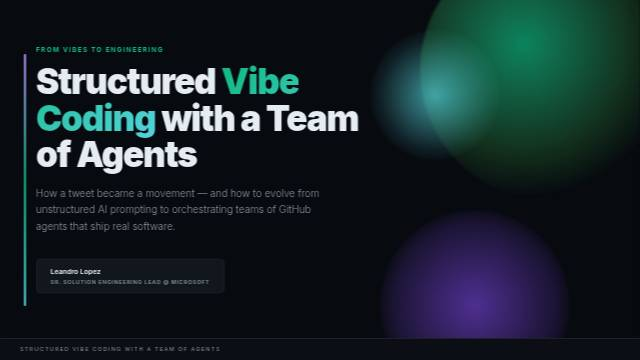
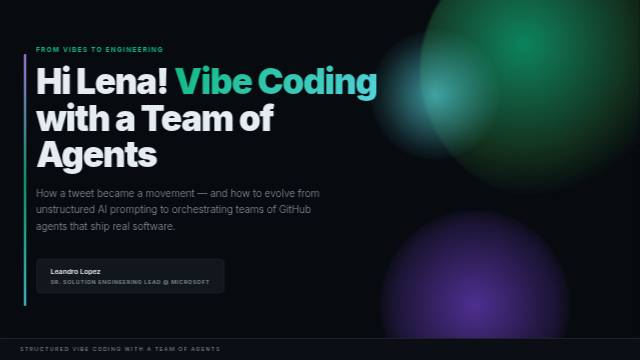
Auto-save from DECKIO — 2026-04-09T15:12

Changed region(s): [[0.0312, 0.1833, 0.5938, 0.4889]]

diff --git a/src/slides/CoverSlide.jsx b/src/slides/CoverSlide.jsx
@@ -13,7 +13,7 @@ export default function CoverSlide({ index, project }) {
         <div className={styles.content}>
           <p className={styles.eyebrow}>From Vibes to Engineering</p>
           <h1>
-            Structured <span className={styles.highlight}>Vibe Coding</span> with a Team of Agents
+            Hi Lena! <span className={styles.highlight}>Vibe Coding</span> with a Team of Agents
           </h1>
           <p className={styles.subtitle}>
             How a tweet became a movement — and how to evolve from unstructured AI prompting
